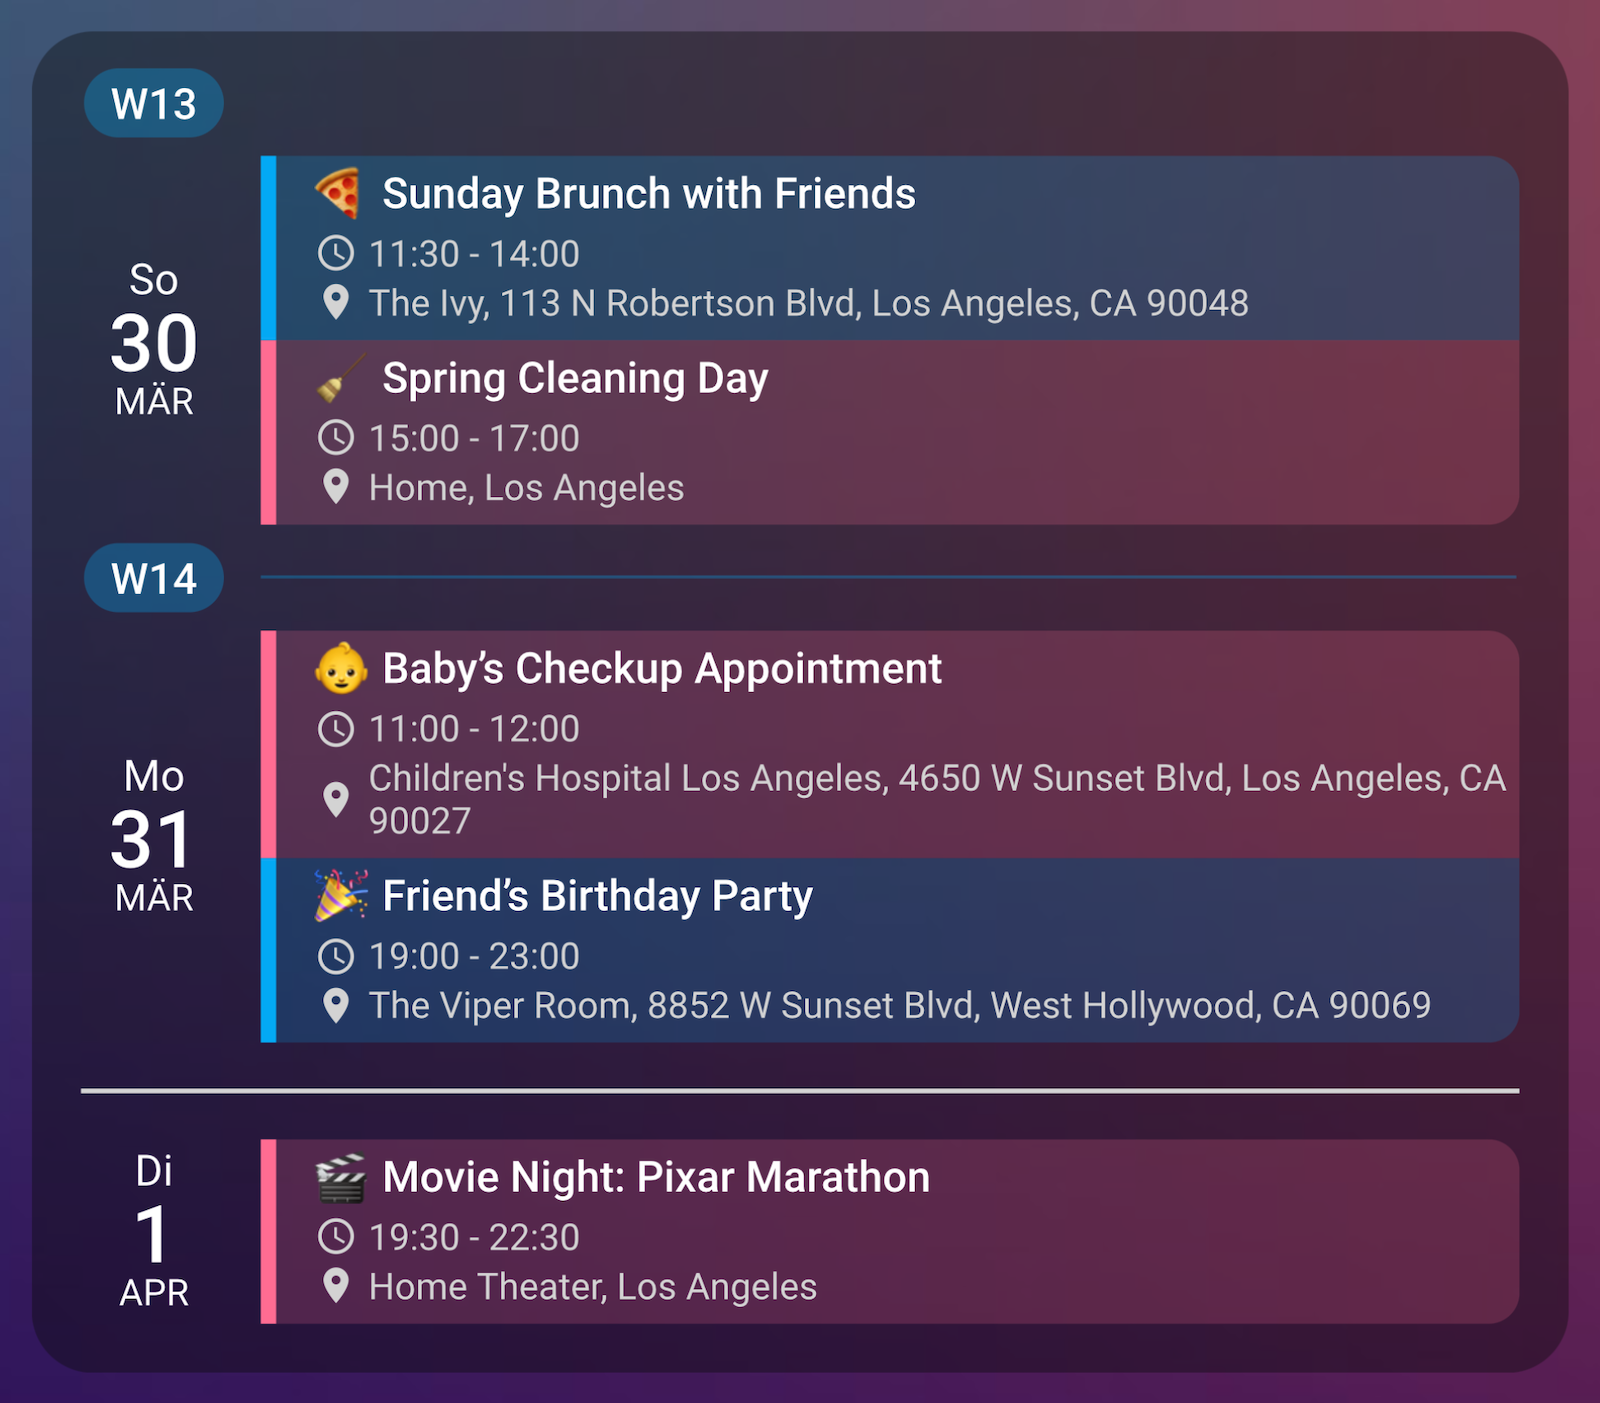
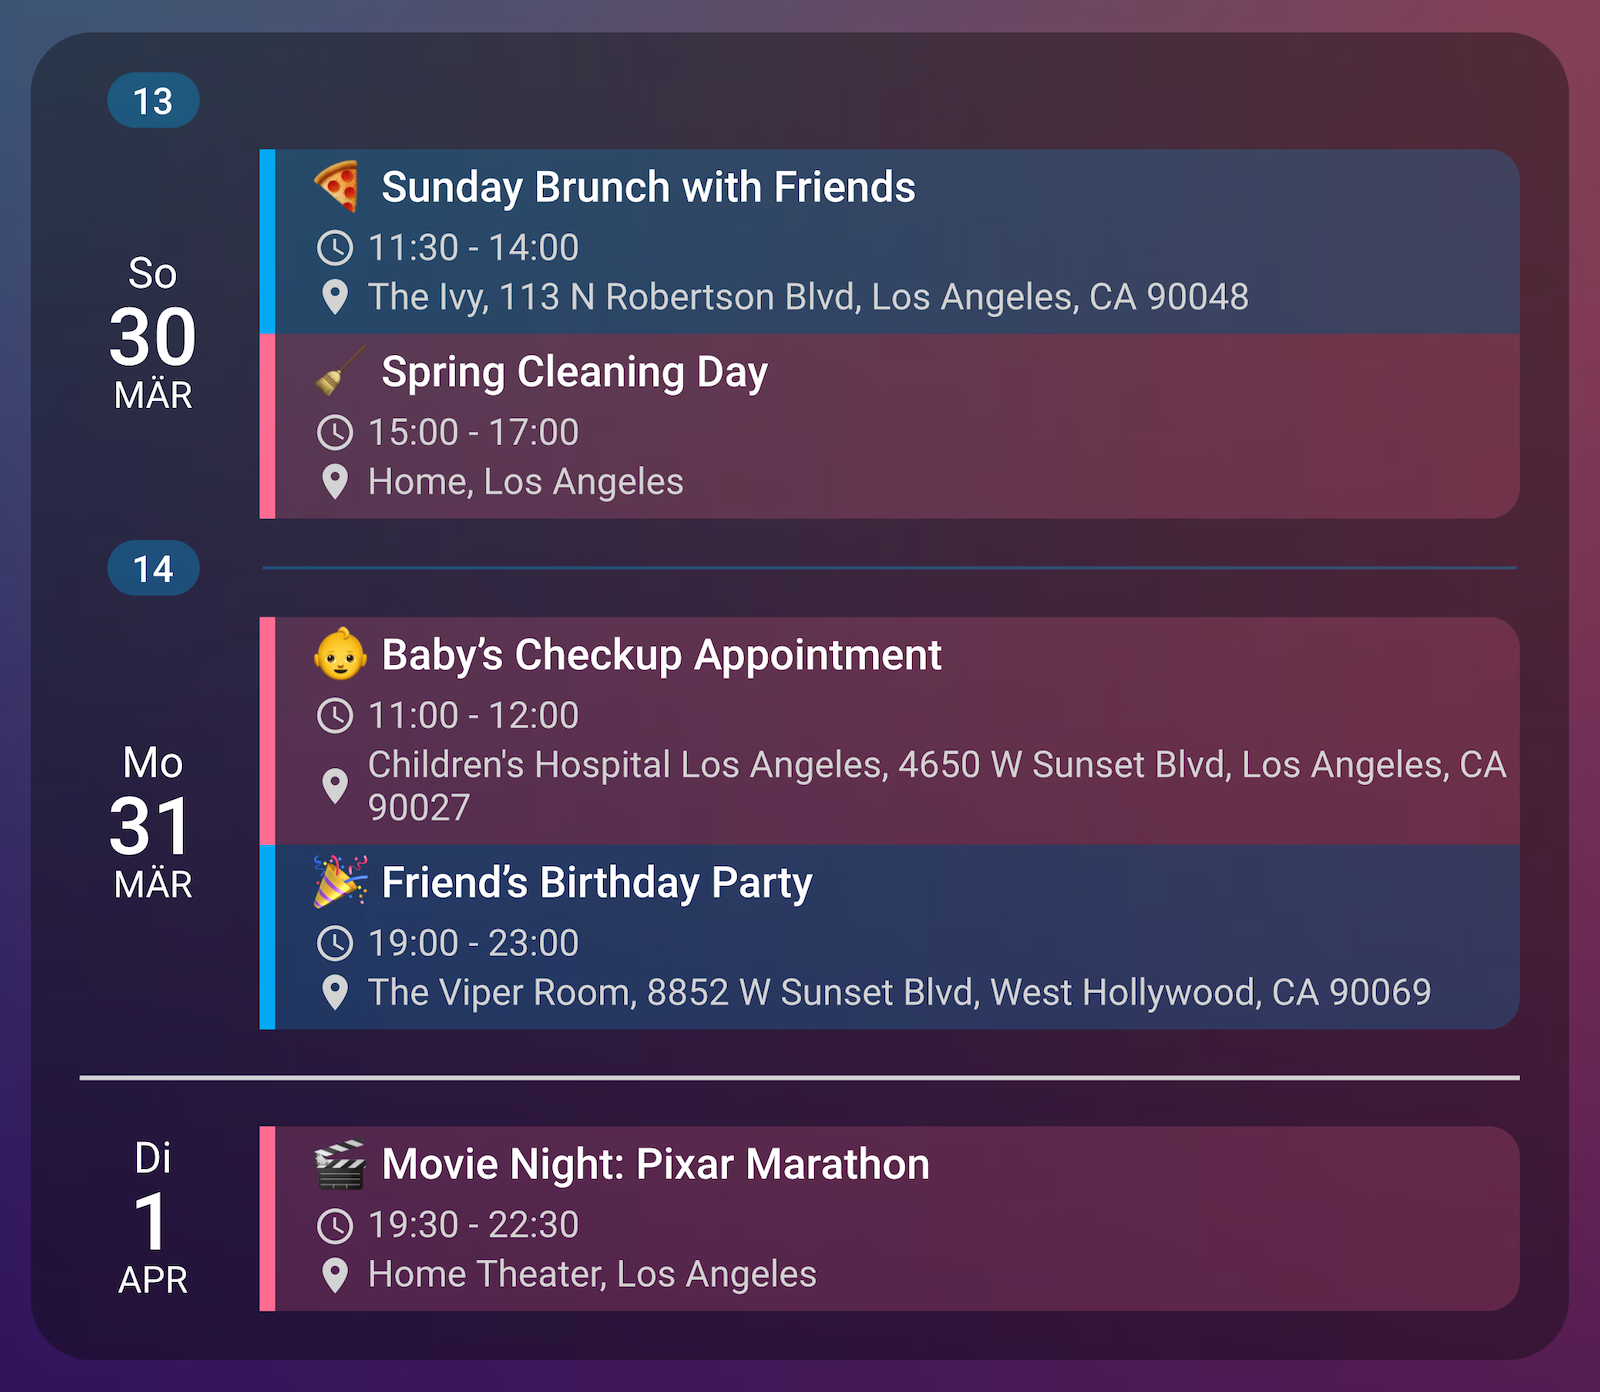
fix: improve week number display
- Remove "W" prefix from week number pill for cleaner appearance
- Change default week number font size to 12px for better balance
- Improve week number pill scaling with different font sizes
- Update screenshot

diff --git a/src/rendering/styles.ts b/src/rendering/styles.ts
@@ -167,7 +167,7 @@ export const cardStyles = css`
    * Creates consistent alignment with calendar data below */
   /* Margins are applied dynamically in renderWeekRow */
   .week-row-table {
-    height: calc(var(--calendar-card-week-number-font-size) * 1.2);
+    height: calc(var(--calendar-card-week-number-font-size) * 1.5);
     width: 100%;
     table-layout: fixed;
     border-spacing: 0;
@@ -184,30 +184,25 @@ export const cardStyles = css`
    * Sized to match date column width for proper alignment */
   .week-number-cell {
     width: var(--calendar-card-date-column-width);
+    position: relative;
     text-align: center;
     vertical-align: middle;
     padding-right: 12px; /* Match date column padding */
-    border: none !important;
   }
 
-  /* Week number pill display
-   * Rounded badge showing the current week number */
+  /* Week number pill - positioned absolutely and centered within its cell */
   .week-number {
-    /* Change to flex from inline-block for better alignment */
-    display: flex;
+    width: calc(var(--calendar-card-week-number-font-size) * 2.5);
+    height: calc(var(--calendar-card-week-number-font-size) * 1.5);
+    display: inline-flex; /* Centering */
     align-items: center;
     justify-content: center;
     font-size: var(--calendar-card-week-number-font-size);
     font-weight: 500;
-    line-height: 1;
     color: var(--calendar-card-week-number-color);
     background-color: var(--calendar-card-week-number-bg-color);
     border-radius: 999px;
-    /* More consistent padding with box-sizing */
     box-sizing: border-box;
-    padding: calc(var(--calendar-card-week-number-font-size) * 0.3)
-      calc(var(--calendar-card-week-number-font-size) * 0.6);
-    /* Better text rendering */
     -webkit-font-smoothing: antialiased;
     text-rendering: optimizeLegibility;
   }
@@ -216,29 +211,23 @@ export const cardStyles = css`
   @supports (-webkit-touch-callout: none) {
     .week-number {
       /* Adjust padding to improve vertical alignment on iOS Safari */
-      padding-top: calc(var(--calendar-card-week-number-font-size) * 0.4);
-      padding-bottom: calc(var(--calendar-card-week-number-font-size) * 0.2);
+      padding-top: calc(var(--calendar-card-week-number-font-size) * 0.1);
     }
   }
 
   /* Right cell containing the horizontal separator line
    * Takes up remaining width of the table */
   .separator-cell {
-    min-height: calc(var(--calendar-card-week-number-font-size) * 1.2);
-    padding-left: 0;
     vertical-align: middle;
-    position: relative;
-    display: flex;
   }
 
+  /* The actual separator line */
   .separator-line {
     width: 100%;
     height: var(--separator-border-width, 0);
     background-color: var(--separator-border-color, transparent);
     /* Only show when width > 0px */
     display: var(--separator-display, none);
-    align-self: center;
-    flex-shrink: 0;
   }
 
   /* Day separator - Horizontal line between individual days

diff --git a/src/rendering/render.ts b/src/rendering/render.ts
@@ -272,7 +272,7 @@ function renderWeekRow(
     <table class="week-row-table" style=${styleMap(rowStyle)}>
       <tr>
         <td class="week-number-cell">
-          <div class="week-number">W${weekNumber}</div>
+          <div class="week-number">${weekNumber}</div>
         </td>
         <td class="separator-cell" style=${styleMap(lineStyle)}>
           <div class="separator-line"></div>

diff --git a/src/config/config.ts b/src/config/config.ts
@@ -46,7 +46,7 @@ export const DEFAULT_CONFIG: Types.Config = {
   first_day_of_week: 'system',
   show_week_numbers: null,
   show_current_week_number: true,
-  week_number_font_size: '14px',
+  week_number_font_size: '12px',
   week_number_color: 'var(--primary-text-color)',
   week_number_background_color: '#03a9f450',
   day_separator_width: '0px',
